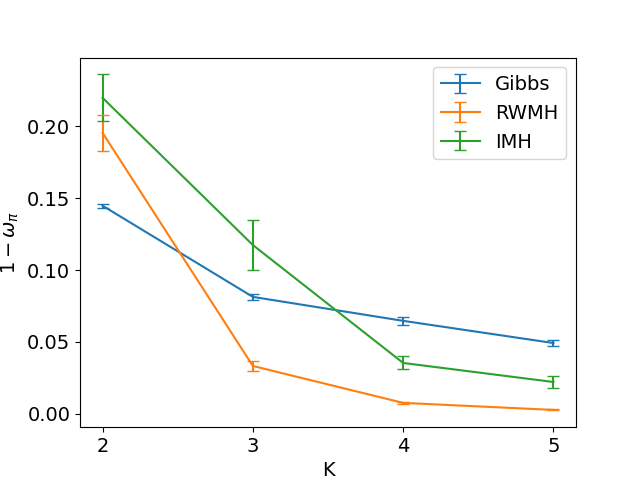
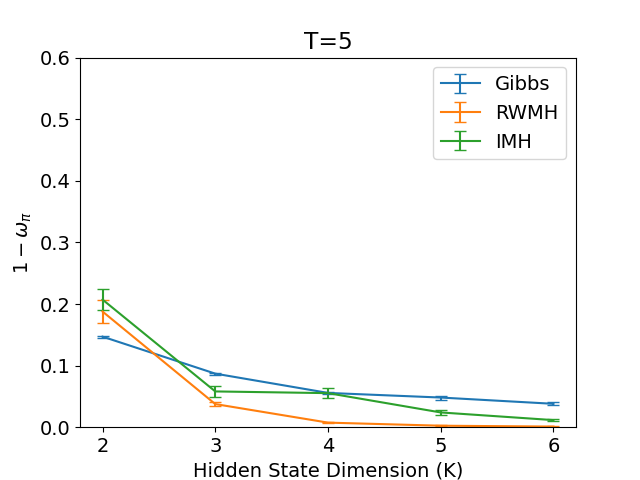
code update to generate tmix and omega plots

diff --git a/compute_tmix.py b/compute_tmix.py
@@ -1,4 +1,5 @@
 import pickle
+from pathlib import Path
 
 import numpy as np
 import pandas as pd
@@ -13,41 +14,55 @@ tmix = lambda eps,pi,omega: (np.log(1/eps) + .5 * np.log(1/np.min(pi))) / (1-ome
 
 
 def plot_results_tmix_T(tmix_dict):
-    results_series = pd.Series(tmix_dict)
-    results_series.index.names = ['alg', 'K', 'T']
+    results_df = pd.DataFrame(tmix_dict)
+    results_df.columns.names = ['alg', 'K', 'T']
 
     idxs = pd.IndexSlice
 
     K = 2
     for alg in ['gibbs', 'mh_uniform', 'mh_prior']:
-        subset = np.log10(results_series.loc[idxs[alg, K, :]])
-        plt.plot(subset.index.to_list(), subset.to_list(), label=f"{alglabels[alg]}")
+        subset = np.log10(results_df.loc[:, idxs[alg, K, :]])
+        means = subset.mean(0).droplevel([0, 1])
+        stds = subset.std(0).droplevel([0, 1])
+        plt.errorbar(means.index.to_list(), means.to_list(), yerr=stds / np.sqrt(len(subset)), capsize=4,
+                     label=f"{alglabels[alg]}")
+        # subset = np.log10(results_df.loc[idxs[alg, K, :]])
+        # plt.plot(subset.index.to_list(), subset.to_list(), label=f"{alglabels[alg]}")
     plt.ylabel('$ \log_{10}$ (Tmix)')
-    plt.xlabel('T')
-    plt.legend()
-    plt.xticks(subset.index.to_list())
-    # plt.yscale('log')
+    plt.xlabel('Trajectory Length (T)')
+    plt.ylim(1, 5)
+    plt.xticks(means.index.to_list())
+    plt.yticks(np.arange(1, 6))
+    plt.legend(loc='upper left')
+    plt.title('K=2')
     # plt.show()
     plt.savefig(f"experiments/plots/tmix_k_{K}.png")
     plt.close()
 
 def plot_results_tmix_K(tmix_dict):
-    results_series = pd.Series(tmix_dict)
-    results_series.index.names = ['alg', 'K', 'T']
+    results_df = pd.DataFrame(tmix_dict)
+    results_df.columns.names = ['alg', 'K', 'T']
 
     idxs = pd.IndexSlice
 
     T = 5
     for alg in ['gibbs', 'mh_uniform', 'mh_prior']:
-        subset = np.log10(results_series.loc[idxs[alg, :, T]])
-        plt.plot(subset.index.to_list(), subset.to_list(), label=f"{alglabels[alg]}")
+        subset = np.log10(results_df.loc[:, idxs[alg, :, T]])
+        means = subset.mean(0).droplevel([0, 2])
+        stds = subset.std(0).droplevel([0, 2])
+        plt.errorbar(means.index.to_list(), means.to_list(), yerr=stds / np.sqrt(len(subset)), capsize=4,
+                     label=f"{alglabels[alg]}")
+        # subset = np.log10(results_df.loc[idxs[alg, :, T]])
+        # plt.plot(subset.index.to_list(), subset.to_list(), label=f"{alglabels[alg]}")
 
     plt.ylabel('$ \log_{10}$ (Tmix)')
     # plt.ylabel('$T_{{mix}}$')
-    plt.xlabel('K')
-    plt.xticks(subset.index.to_list())
-    plt.legend()
-    # plt.yscale('log')
+    plt.xlabel('Hidden State Dimension (K)')
+    plt.ylim(1, 5)
+    plt.xticks(means.index.to_list())
+    plt.yticks(np.arange(1, 6))
+    plt.legend(loc='upper left')
+    plt.title('T=5')
     # plt.show()
     plt.savefig(f"experiments/plots/tmix_T_{T}.png")
     plt.close()
@@ -65,18 +80,18 @@ def do_experiments():
 def make_tmix():
     alg = 'gibbs'
     eps = 0.01
-    omega_dict = loadomega()
+    pi_dict, omega_dict = load_pi_omega()
     tmix_dict = {}
     for alg in ['gibbs', 'mh_uniform', 'mh_prior']:
         for K in range(2, 7):
             for T in range(2, 14):
                 # if K ** T > 2000: continue  # REMOVE THIS DURING FINAL RUN
                 try:
-                    pi = loadpi(T=T, K=K, alg='gibbs')
-                    omega = omega_dict[(alg, K, T)]
+                    pi_vals = pi_dict[(K,T)] #array of shape (N, K^T)
+                    omega_vals = omega_dict[(alg, K, T)] #list of length N
                     # (_, X), model = loaddatamodel(T, K)
                     # omega = compute_omega(T, K, alg, model, X)
-                    tmix_dict[(alg, K, T)] = tmix(eps, pi, omega)
+                    tmix_dict[(alg, K, T)] = [tmix(eps, pi, omega) for pi,omega in zip(pi_vals, omega_vals)]
                     print(f"T_mix for {alg} K:{K}, T:{T}: {tmix_dict[(alg, K, T)]}")
                 except:
                     continue
@@ -98,6 +113,24 @@ def loadtmix():
     print(f"Loaded Omega Dict from {filename}. Keys (Alg, K, T): {tmix_dict.keys()}")
     return tmix_dict
 
+
+def load_pi_omega():
+    foldername = Path(f'experiments/results/mix_time')
+    filenames = {(K,T): foldername / f'mix_time_analysis_K_{K}_T_{T}.pkl' for K in range(2, 7) for T in range(2, 14) if (foldername / f'mix_time_analysis_K_{K}_T_{T}.pkl').exists()}
+
+    omega_dict = {}
+    pi_dict = {}
+    for (K,T), filename in filenames.items():
+        with open(filename, 'rb') as f:
+            _data_KT = pd.DataFrame(pickle.load(f)).T
+            pi_dict[(K, T)] = np.stack(_data_KT['pi'].to_list(), 0)
+            for alg in ['gibbs', 'mh_uniform', 'mh_prior']:
+                omega_dict[(alg, K, T)] = _data_KT[f'w_{alg}'].to_list()
+
+    assert isinstance(omega_dict, dict)
+    assert isinstance(pi_dict, dict)
+    print(f"Loaded Pi/Omega values from Data from {foldername}. Keys (Alg, K, T): {omega_dict.keys()}")
+    return pi_dict, omega_dict
 
 
 if __name__ == '__main__':

diff --git a/plots_omega.py b/plots_omega.py
@@ -5,6 +5,9 @@ import numpy as np
 import pandas as pd
 import matplotlib.pyplot as plt
 from matplotlib import rcParams
+
+from experiments.gibbs import compute_gibbs_transition_dist
+
 rcParams['font.family'] = 'sans-serif'
 rcParams['font.size'] = 14
 from joblib import Parallel, delayed
@@ -65,6 +68,20 @@ def load_mh_uniform_transitionmatrix(T,K, model:HMM, X):
         mh_uniform_transition_kernel[i,i] = -np.infty
         mh_uniform_transition_kernel[i,i] = np.log(-np.expm1(logsumexp(mh_uniform_transition_kernel[:,i])))
     return np.exp(mh_uniform_transition_kernel)
+
+
+# def compute_Wx_gibbs(rw_matrix_gibbs, obs_x_sequence, model, x):
+#     T = len(obs_x_sequence)
+#     K = model.num_states
+#     states = np.vstack(list(product(range(K), repeat=T)))
+#     y = np.zeros_like(x)
+#     for i, current_state in enumerate(states):
+#         for t in range(T):
+#             outgoing_logits = compute_gibbs_transition_dist(t, T, current_state, obs_x_sequence, model)
+#             outgoing_state_idxs = np.where((np.delete(states, t, axis=1) == np.delete(current_state, t)).all(axis=1))[0]
+#             y[outgoing_state_idxs] = rw_matrix_gibbs[i][outgoing_state_idxs] * x[outgoing_state_idxs]
+#     return y
+# linearoperator = compute_Wx_gibbs()
 
 def compute_omega(T, K, alg, model, X):
     if alg == 'gibbs':
@@ -130,16 +147,19 @@ def plot_results_omega_K(results_df):
     idxs = pd.IndexSlice
 
     for alg in ['gibbs', 'mh_uniform', 'mh_prior']:
-        subset = results_df.loc[:, idxs[alg, :, str(T)]]
+        subset = results_df.loc[:, idxs[alg, :, T]]
         means = 1-subset.mean(0).droplevel([0,2])
         stds = subset.std(0).droplevel([0,2])
         # plt.plot(subset.index.to_list(), subset.to_list(), label=f"{alg}")
         plt.errorbar(means.index.to_list(), means.to_list(), yerr=stds/np.sqrt(len(subset)), capsize=4, label=f"{alglabels[alg]}")
 
     plt.ylabel('$1 - \omega_{\pi}$')
-    plt.xlabel('K')
+    plt.xlabel('Hidden State Dimension (K)')
+    plt.xticks(means.index.to_list())
     plt.legend()
-    # plt.ylim(.4, 1.)
+    plt.yticks(np.linspace(0, .6, 7))
+    plt.ylim(0, .6)
+    plt.title('T=5')
     # plt.show()
     plt.savefig(f"experiments/plots/omega_t_5_vary_k_vary_alg_n_{len(subset)}.png")
     plt.close()
@@ -149,14 +169,17 @@ def plot_results_omega_T(results_df):
 
     K=2
     for alg in ['gibbs', 'mh_uniform', 'mh_prior']:
-        subset = results_df.loc[:, idxs[alg, str(K), :]]
+        subset = results_df.loc[:, idxs[alg, K, :]]
         means = 1-subset.mean(0).droplevel([0,1])
         stds = subset.std(0).droplevel([0,1])
         plt.errorbar(means.index.to_list(), means.to_list(), yerr=stds/np.sqrt(len(subset)), capsize=4, label=f"{alglabels[alg]}")
 
     plt.ylabel('$1 - \omega_{\pi}$')
-    plt.xlabel('T')
-    # plt.ylim(.4, 1.)
+    plt.xlabel('Trajectory Length (T)')
+    plt.xticks(means.index.to_list())
+    plt.yticks(np.linspace(0, .6, 7))
+    plt.ylim(0, .6)
+    plt.title('K=2')
     plt.legend()
     # plt.show()
     plt.savefig(f"experiments/plots/omega_k_2_vary_t_vary_alg_n_{len(subset)}.png")
@@ -181,8 +204,15 @@ def plot_results_omega_T(results_df):
 
 
 def loadresults(N):
-    results_df = pd.read_csv(f'experiments/data/omega_K_T_df_n_{N}.csv', header=[0, 1, 2], index_col=0)
+    # results_df = pd.read_csv(f'experiments/data/omega_K_T_df_n_{N}.csv', header=[0, 1, 2], index_col=0)
+    # results_df.columns.names = ['alg', 'K', 'T']
+
+    from compute_tmix import load_pi_omega
+    _, omega_dict = load_pi_omega()
+
+    results_df = pd.DataFrame(omega_dict)
     results_df.columns.names = ['alg', 'K', 'T']
+
     return results_df
 
 

diff --git a/experiment_analysis.py b/experiment_analysis.py
@@ -1,9 +1,7 @@
 import pickle
 import numpy as np
 
-import gibbs as gibbs1
 import experiments.gibbs as gibbs2
-import hmm as hmm1
 import experiments.hmm as hmm2
 from scipy.special import logsumexp
 from scipy.stats import norm

diff --git a/experiments/gibbs.py b/experiments/gibbs.py
@@ -69,6 +69,7 @@ def generate_samples(gibbs,X):
     return samples
 
 
+
 class Gibbs:
     def __init__(self, model, T, N):
         self.model = model
